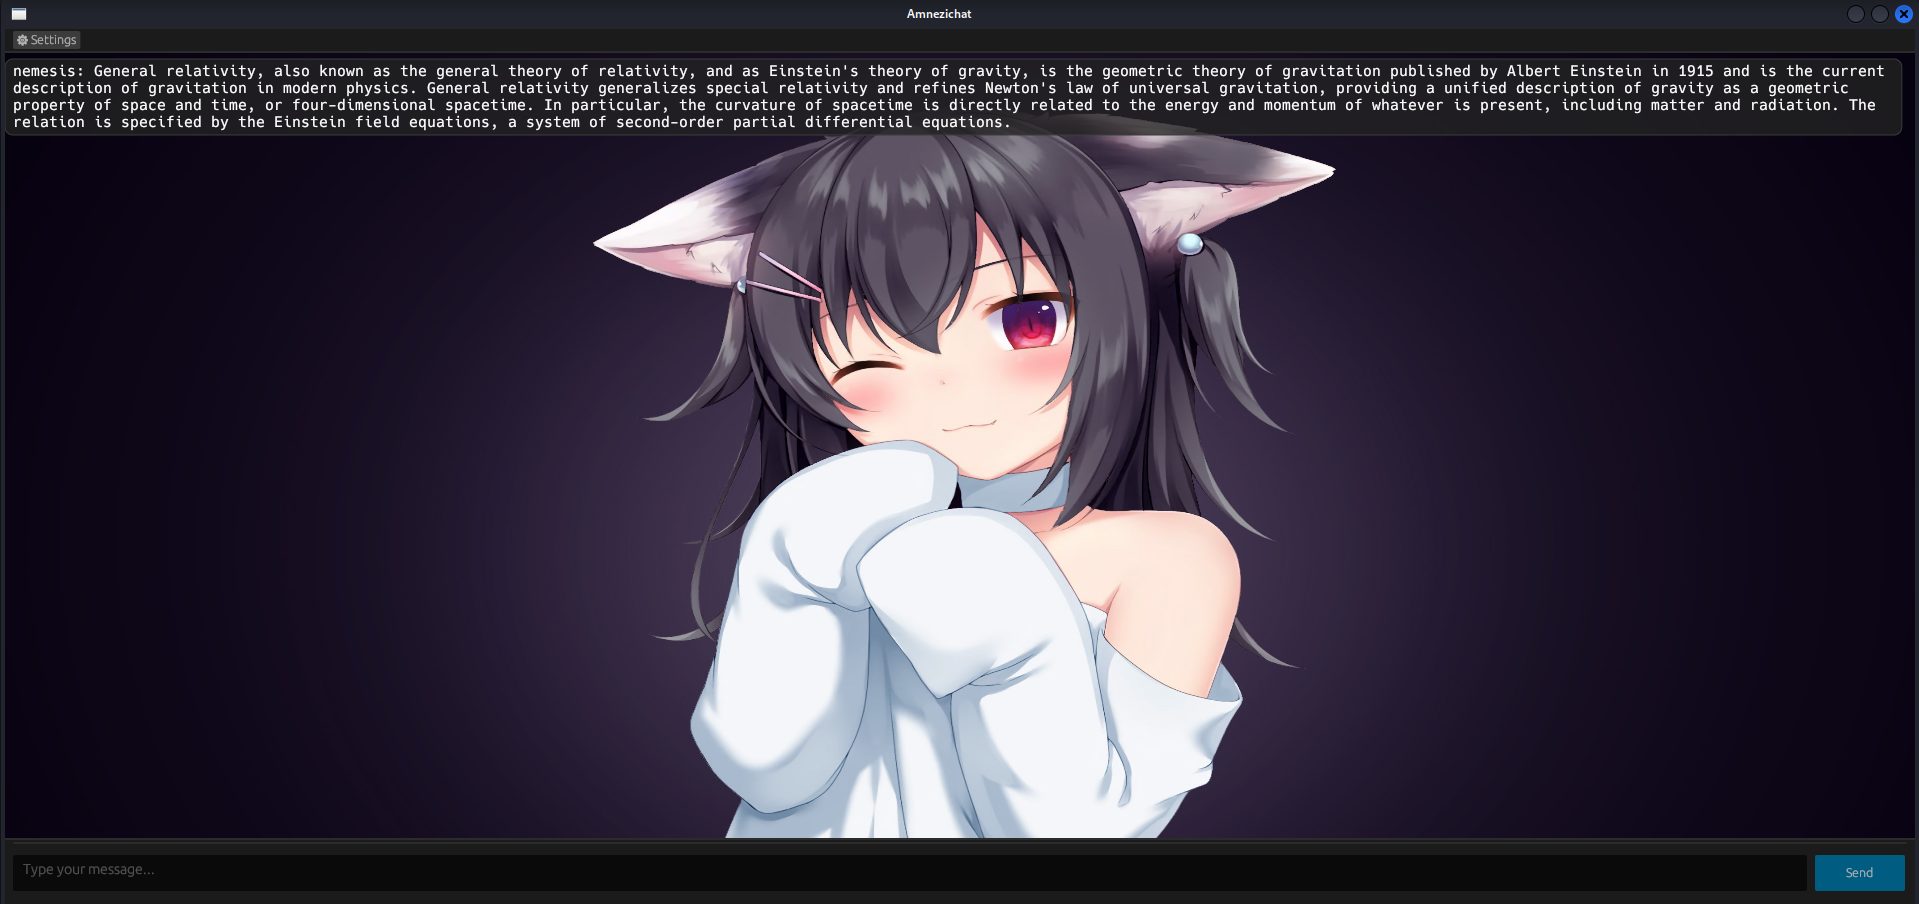
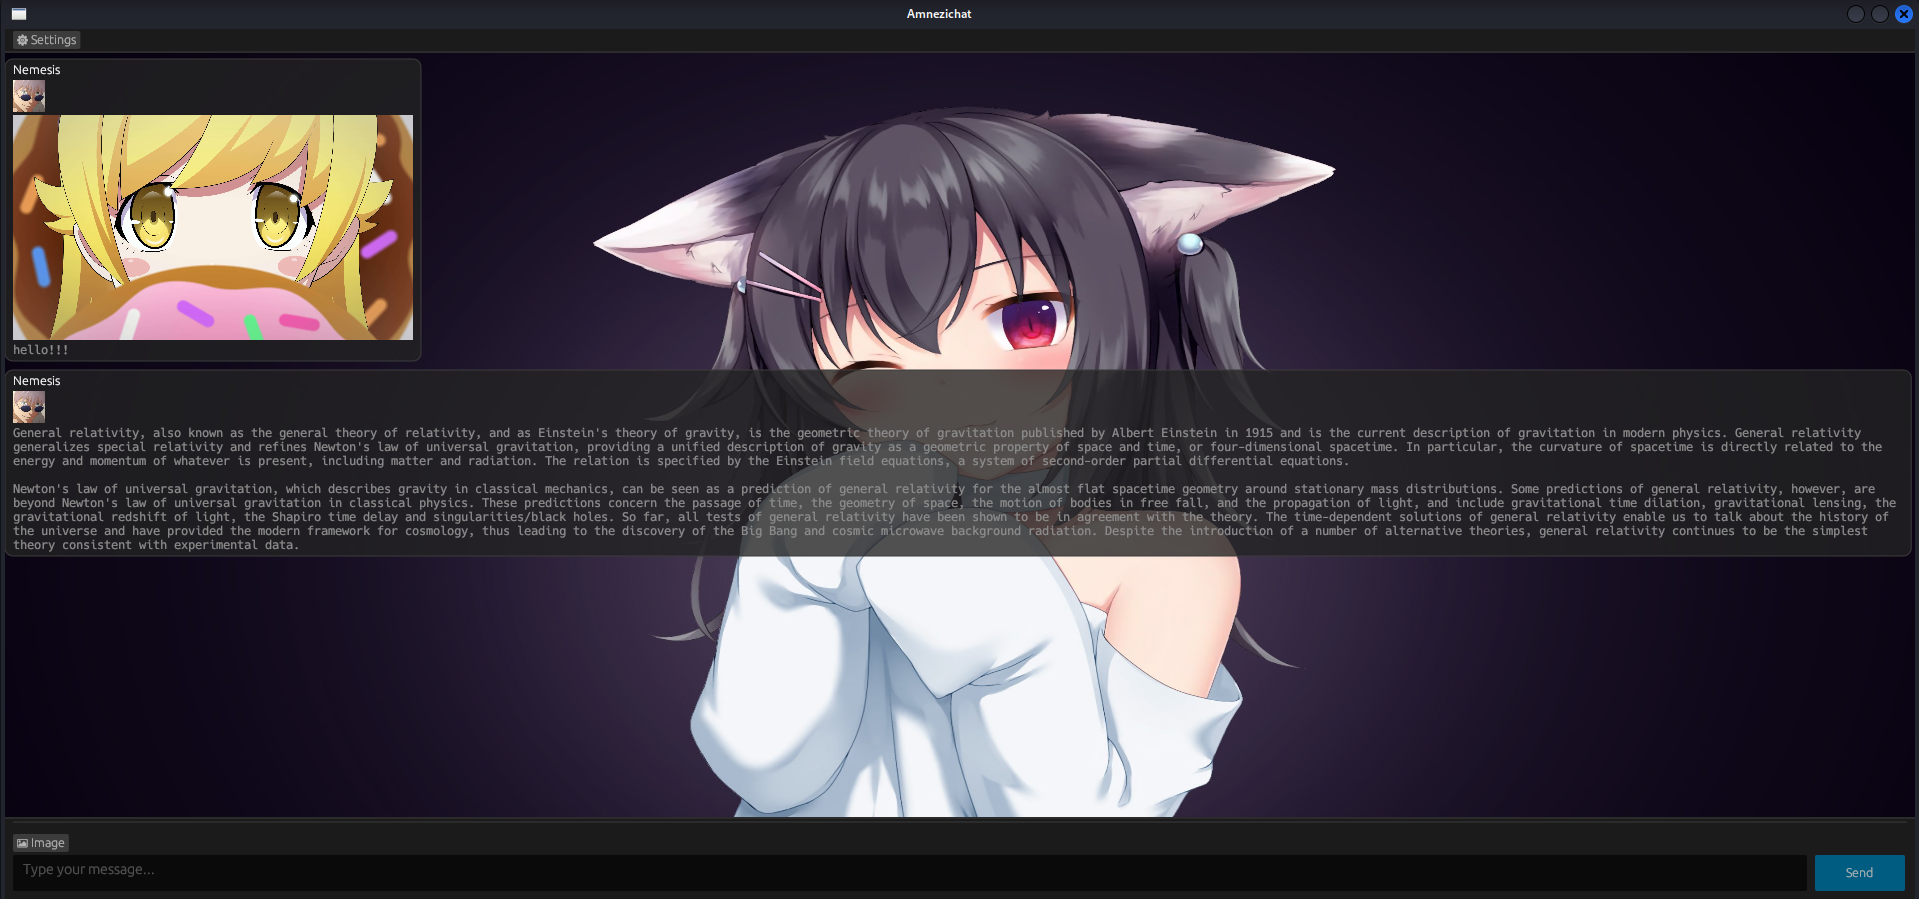
Add media support

diff --git a/client/src/gui.rs b/client/src/gui.rs
@@ -7,8 +7,14 @@ use std::{
     time::Duration,
 };
 
-use eframe::egui;
-use egui::{Color32, TextureHandle};
+use base64::engine::general_purpose::STANDARD;
+use base64::Engine;
+use eframe::egui::{self, Color32, TextureHandle};
+use egui::{RichText, Ui};
+
+fn encode_file_to_base64(path: &PathBuf) -> Option<String> {
+    std::fs::read(path).ok().map(|bytes| STANDARD.encode(&bytes))
+}
 
 #[derive(Clone)]
 pub struct MessagingApp {
@@ -54,6 +60,8 @@ struct EguiApp {
     wallpaper_path: Option<PathBuf>,
     show_settings: bool,
     visible_batch_size: usize,
+    selected_pfp_base64: Option<String>,
+    selected_media_base64: Option<String>,
 }
 
 impl EguiApp {
@@ -113,6 +121,8 @@ impl EguiApp {
             wallpaper_path: None,
             show_settings: false,
             visible_batch_size: 50,
+            selected_pfp_base64: None,
+            selected_media_base64: None,
         }
     }
 
@@ -147,7 +157,7 @@ impl eframe::App for EguiApp {
         if self.show_settings {
             egui::Window::new("Settings")
                 .collapsible(true)
-                .default_size((320.0, 160.0))
+                .default_size((320.0, 200.0))
                 .show(ctx, |ui| {
                     ui.label("Background Color:");
                     ui.color_edit_button_srgba(&mut self.background_color);
@@ -164,6 +174,23 @@ impl eframe::App for EguiApp {
                     if ui.button("Clear Wallpaper").clicked() {
                         self.background_texture = None;
                         self.wallpaper_path = None;
+                    }
+
+                    ui.separator();
+                    ui.label("Profile Picture:");
+                    if ui.button("Select Profile Picture").clicked() {
+                        if let Some(path) = rfd::FileDialog::new()
+                            .add_filter("Image", &["png", "jpg", "jpeg", "bmp"])
+                            .pick_file()
+                        {
+                            self.selected_pfp_base64 = encode_file_to_base64(&path);
+                        }
+                    }
+
+                    if self.selected_pfp_base64.is_some() {
+                        ui.label("Profile picture selected.");
+                    } else {
+                        ui.label("No profile picture selected.");
                     }
                 });
         }
@@ -213,10 +240,7 @@ impl eframe::App for EguiApp {
                                 .rounding(egui::Rounding::same(8.0))
                                 .inner_margin(egui::vec2(8.0, 4.0))
                                 .show(ui, |ui| {
-                                    ui.label(
-                                        parse_html_message(&msg)
-                                            .font(egui::FontId::monospace(15.0)),
-                                    );
+                                    parse_html_message_with_widgets(ui, &msg, ctx);
                                 });
                         }
 
@@ -226,10 +250,21 @@ impl eframe::App for EguiApp {
 
         egui::TopBottomPanel::bottom("bottom_panel")
             .resizable(false)
-            .default_height(60.0)
+            .default_height(90.0)
             .show(ctx, |ui| {
                 ui.separator();
                 ui.add_space(6.0);
+
+                ui.horizontal(|ui| {
+                    if ui.button("\u{1F5BC} Image").clicked() {
+                        if let Some(path) = rfd::FileDialog::new()
+                            .add_filter("Image", &["png", "jpg", "jpeg", "bmp"])
+                            .pick_file()
+                        {
+                            self.selected_media_base64 = encode_file_to_base64(&path);
+                        }
+                    }
+                });
 
                 ui.horizontal(|ui| {
                     let available_width = ui.available_width() - 100.0;
@@ -259,10 +294,19 @@ impl eframe::App for EguiApp {
                     if send_clicked || enter_pressed {
                         let trimmed = self.input.trim();
                         if !trimmed.is_empty() {
-                            if trimmed.eq_ignore_ascii_case("exit") {
+                            let mut composed = trimmed.to_string();
+
+                            if let Some(pfp) = &self.selected_pfp_base64 {
+                                composed.push_str(&format!(" <pfp>{}</pfp>", pfp));
+                            }
+                            if let Some(media) = self.selected_media_base64.take() {
+                                composed.push_str(&format!(" <media>{}</media>", media));
+                            }
+
+                            if composed.eq_ignore_ascii_case("exit") {
                                 ctx.send_viewport_cmd(egui::ViewportCommand::Close);
                             } else {
-                                let _ = self.sender.send(trimmed.to_string());
+                                let _ = self.sender.send(composed);
                             }
                             self.input.clear();
                         }
@@ -274,27 +318,72 @@ impl eframe::App for EguiApp {
     }
 }
 
-fn parse_html_message(msg: &str) -> egui::RichText {
-    let mut cleaned_msg = msg.to_string();
+fn decode_base64_to_image(ctx: &egui::Context, tag: &str, b64: &str) -> Option<TextureHandle> {
+    let bytes = base64::engine::general_purpose::STANDARD.decode(b64).ok()?;
+    let image = image::load_from_memory(&bytes).ok()?.to_rgba8();
+    let size = [image.width() as usize, image.height() as usize];
+    let pixels = image.as_flat_samples();
+    Some(ctx.load_texture(
+        format!("{}_image", tag),
+        egui::ColorImage::from_rgba_unmultiplied(size, pixels.as_slice()),
+        egui::TextureOptions::LINEAR,
+    ))
+}
 
-    for tag in &["media", "audio", "pfp"] {
-        while let Some(start) = cleaned_msg.find(&format!("<{}>", tag)) {
-            if let Some(end) = cleaned_msg[start..].find(&format!("</{}>", tag)) {
-                let end = start + end + tag.len() + 3;
-                cleaned_msg.replace_range(start..end, "");
+fn parse_html_message_with_widgets(ui: &mut Ui, msg: &str, ctx: &egui::Context) {
+    let mut remaining = msg.to_string();
+
+    if let (Some(start), Some(end)) = (remaining.find("<strong>"), remaining.find("</strong>")) {
+        if end > start {
+            let bold_text = &remaining[start + 8..end];
+            ui.label(RichText::new(bold_text).strong());
+            remaining = remaining[end + 9..].to_string();
+    
+            if remaining.starts_with(": ") {
+                remaining = remaining[2..].to_string();
+            } else if remaining.starts_with(':') {
+                remaining = remaining[1..].to_string();
+            }
+        }
+    }    
+
+    let max_pfp_size = egui::Vec2::new(32.0, 32.0);
+    let max_media_size = egui::Vec2::new(400.0, 300.0);
+
+    while let Some(start) = remaining.find('<') {
+        if let Some(end) = remaining[start..].find('>') {
+            let end = start + end;
+            let tag = &remaining[start + 1..end];
+            let close_tag = format!("</{}>", tag);
+            if let Some(close_start) = remaining[end + 1..].find(&close_tag) {
+                let content_start = end + 1;
+                let content_end = end + 1 + close_start;
+                let content = &remaining[content_start..content_end];
+
+                match tag {
+                    "media" | "pfp" => {
+                        if let Some(tex) = decode_base64_to_image(ctx, tag, content) {
+                            let size = tex.size_vec2();
+                            let max_size = if tag == "pfp" { max_pfp_size } else { max_media_size };
+                            let scale = (max_size.x / size.x).min(max_size.y / size.y).min(1.0);
+                            let scaled_size = size * scale;
+                            let (rect, _) = ui.allocate_exact_size(scaled_size, egui::Sense::hover());
+                            ui.painter().image(tex.id(), rect, egui::Rect::from_min_max(egui::Pos2::ZERO, egui::Pos2::new(1.0, 1.0)), Color32::WHITE);
+                        }
+                    }
+                    _ => {}
+                }
+
+                remaining.replace_range(start..(content_end + close_tag.len()), "");
             } else {
                 break;
             }
+        } else {
+            break;
         }
     }
 
-    if let (Some(start), Some(end)) = (cleaned_msg.find("<strong>"), cleaned_msg.find("</strong>")) {
-        if end > start + 8 {
-            let bold_text = &cleaned_msg[start + 8..end];
-            let rest = &cleaned_msg[end + 9..];
-            return egui::RichText::new(format!("{}{}", bold_text, rest)).strong();
-        }
+    if !remaining.trim().is_empty() {
+        ui.label(RichText::new(remaining.trim()).monospace());
     }
-
-    egui::RichText::new(cleaned_msg)
 }
